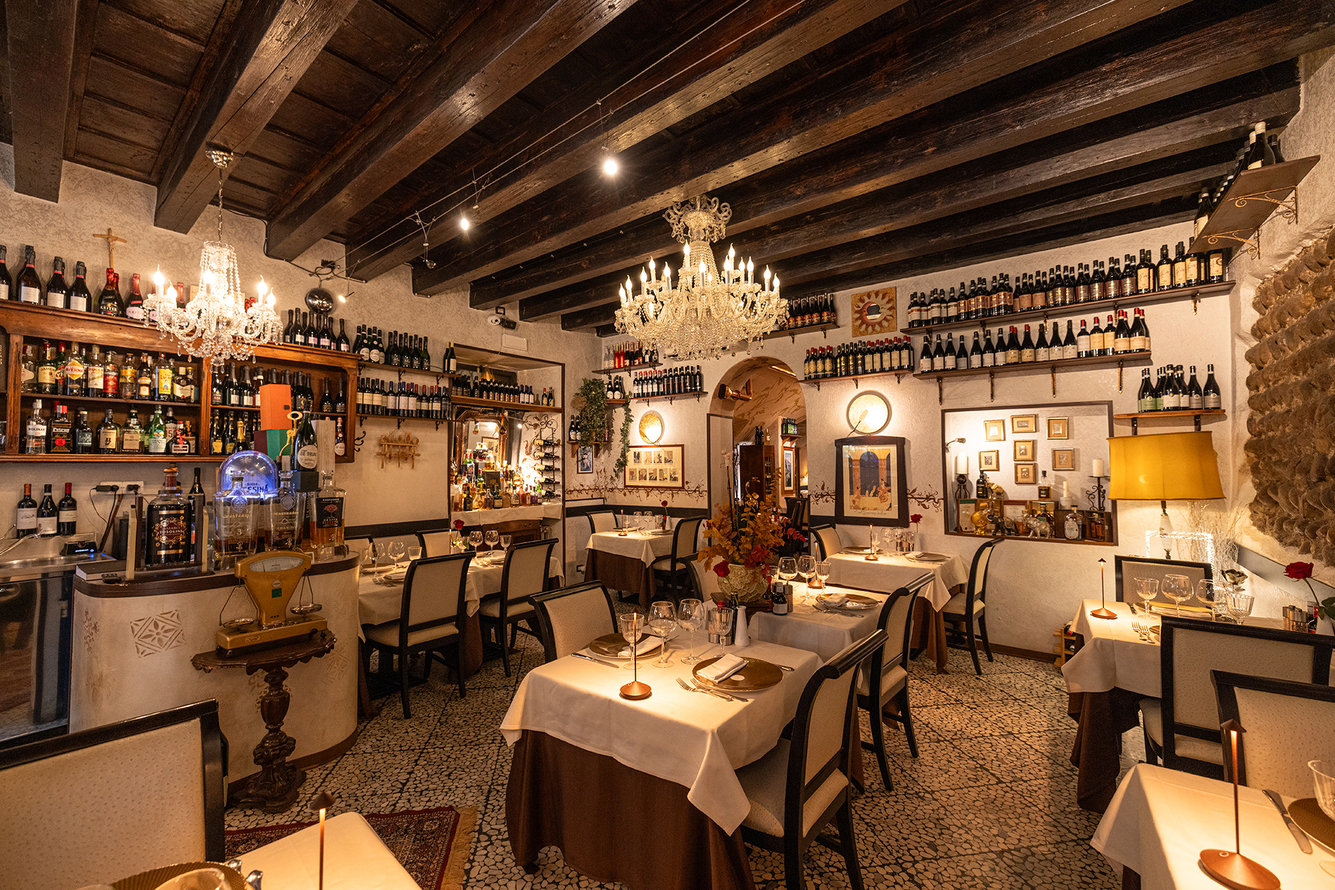
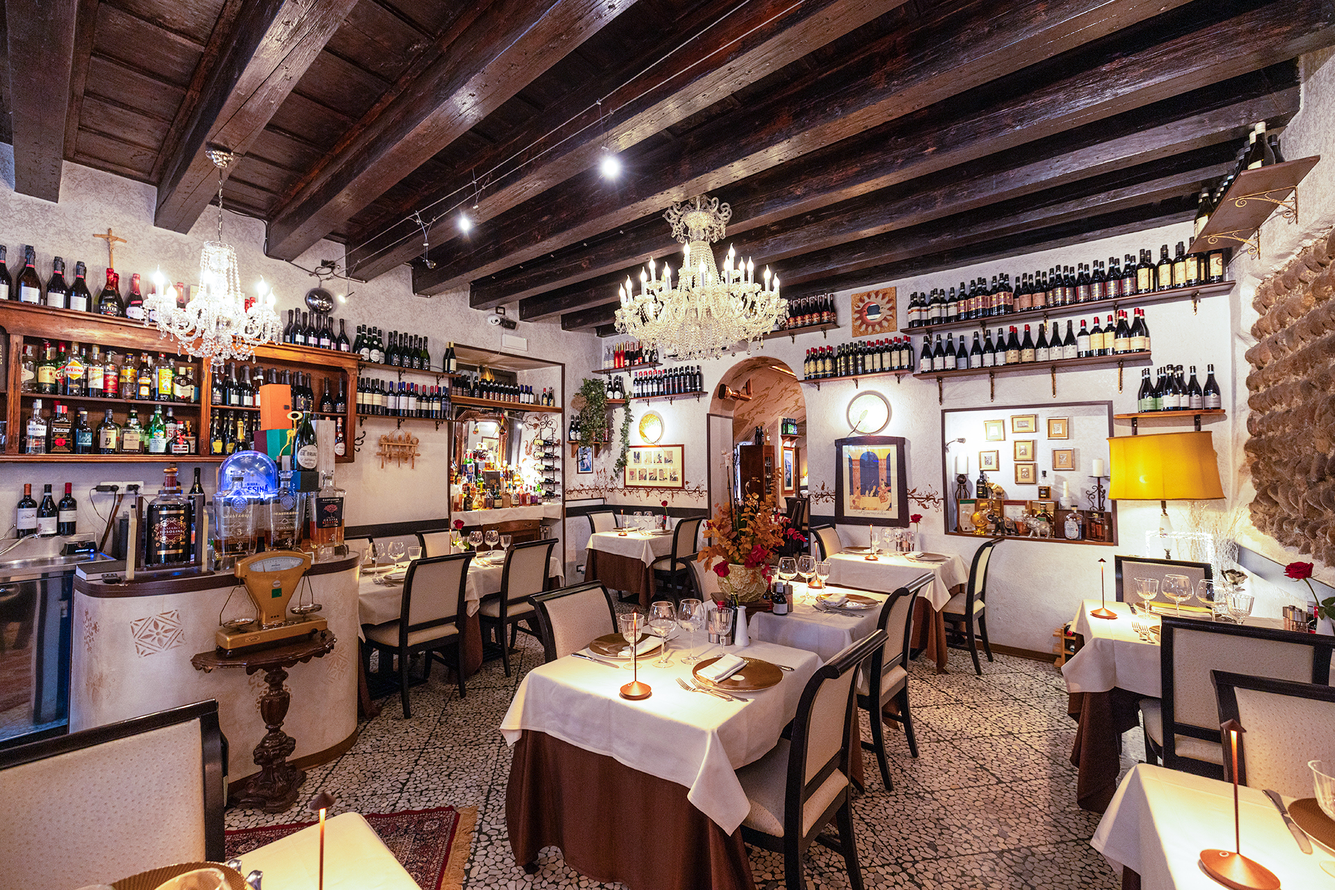
update: latest changes

diff --git a/components/home/HeroSection.tsx b/components/home/HeroSection.tsx
@@ -2,13 +2,19 @@
 
 import Image from "next/image";
 import Link from "next/link";
-import { motion, useScroll, useTransform } from "framer-motion";
-import { useRef } from "react";
+import { motion, useScroll, useTransform, AnimatePresence } from "framer-motion";
+import { useRef, useState, useEffect } from "react";
 
 const QUAY_EASE = [0.22, 1, 0.36, 1] as const;
 
+const HERO_IMAGES = [
+  "/images/tavola-elegante-rosa-rossa-cristalli-affresco-la-vecia-mescola.jpg",
+  "/images/sala-principale-travi-vista-lampadari-muro-pietra-la-vecia-mescola.jpg",
+];
+
 export function HeroSection() {
   const ref = useRef<HTMLElement>(null);
+  const [current, setCurrent] = useState(0);
   const { scrollYProgress } = useScroll({
     target: ref,
     offset: ["start start", "end start"],
@@ -16,26 +22,41 @@ export function HeroSection() {
   const scale = useTransform(scrollYProgress, [0, 0.4], [1, 1.08]);
   const y = useTransform(scrollYProgress, [0, 0.5], [0, 60]);
 
+  useEffect(() => {
+    const timer = setInterval(() => {
+      setCurrent((prev) => (prev + 1) % HERO_IMAGES.length);
+    }, 6000);
+    return () => clearInterval(timer);
+  }, []);
+
   return (
     <section ref={ref} className="relative z-10 flex min-h-svh items-center justify-center overflow-hidden">
       {/* Hero image — parallax: scala e si sposta leggermente con lo scroll */}
       <div className="absolute inset-0 z-0">
         <motion.div
-          initial={{ opacity: 0.9 }}
-          animate={{ opacity: 1 }}
-          transition={{ duration: 1.2, ease: QUAY_EASE }}
           style={{ scale, y }}
           className="absolute inset-0"
         >
-          <Image
-            src="/images/tavola-elegante-rosa-rossa-cristalli-affresco-la-vecia-mescola.jpg"
-            alt="La Vecia Mescola — Cucina veneta nel cuore di Verona"
-            fill
-            priority
-            unoptimized
-            className="object-cover"
-            sizes="100vw"
-          />
+          <AnimatePresence initial={false}>
+            <motion.div
+              key={current}
+              initial={{ opacity: 0 }}
+              animate={{ opacity: 1 }}
+              exit={{ opacity: 0 }}
+              transition={{ duration: 1.5, ease: QUAY_EASE }}
+              className="absolute inset-0"
+            >
+              <Image
+                src={HERO_IMAGES[current]}
+                alt="La Vecia Mescola — Cucina veneta nel cuore di Verona"
+                fill
+                priority={current === 0}
+                unoptimized
+                className="object-cover"
+                sizes="100vw"
+              />
+            </motion.div>
+          </AnimatePresence>
         </motion.div>
       </div>
 

diff --git a/components/home/CucinaSection.tsx b/components/home/CucinaSection.tsx
@@ -13,7 +13,7 @@ export function CucinaSection() {
   return (
     <section
       id="cucina"
-      className="relative min-h-[120vh] overflow-hidden bg-[#EBD9D4] pt-14 pb-14 sm:pt-20 sm:pb-20"
+      className="relative min-h-[120vh] overflow-hidden bg-[#EBD9D4] pt-14 pb-7 sm:pt-20 sm:pb-10"
     >
       <div className="relative mx-auto flex min-h-[100vh] max-w-screen-2xl flex-col items-stretch px-4 lg:flex-row lg:items-end lg:gap-16 lg:px-8">
         {/* Testo decorativo — scorre sotto l'immagine */}

diff --git a/components/home/CantinaSection.tsx b/components/home/CantinaSection.tsx
@@ -28,7 +28,7 @@ export function CantinaSection() {
   return (
     <section
       id="cantina"
-      className="relative min-h-[120vh] overflow-hidden bg-[#EBD9D4] pt-14 pb-20 sm:pt-20 sm:pb-28"
+      className="relative min-h-[120vh] overflow-hidden bg-[#EBD9D4] pt-7 pb-20 sm:pt-10 sm:pb-28"
     >
       <div className="relative mx-auto flex min-h-[100vh] max-w-screen-2xl flex-col items-stretch px-4 lg:flex-row lg:items-end lg:gap-16 lg:px-8">
         {/* Testo a sinistra */}
